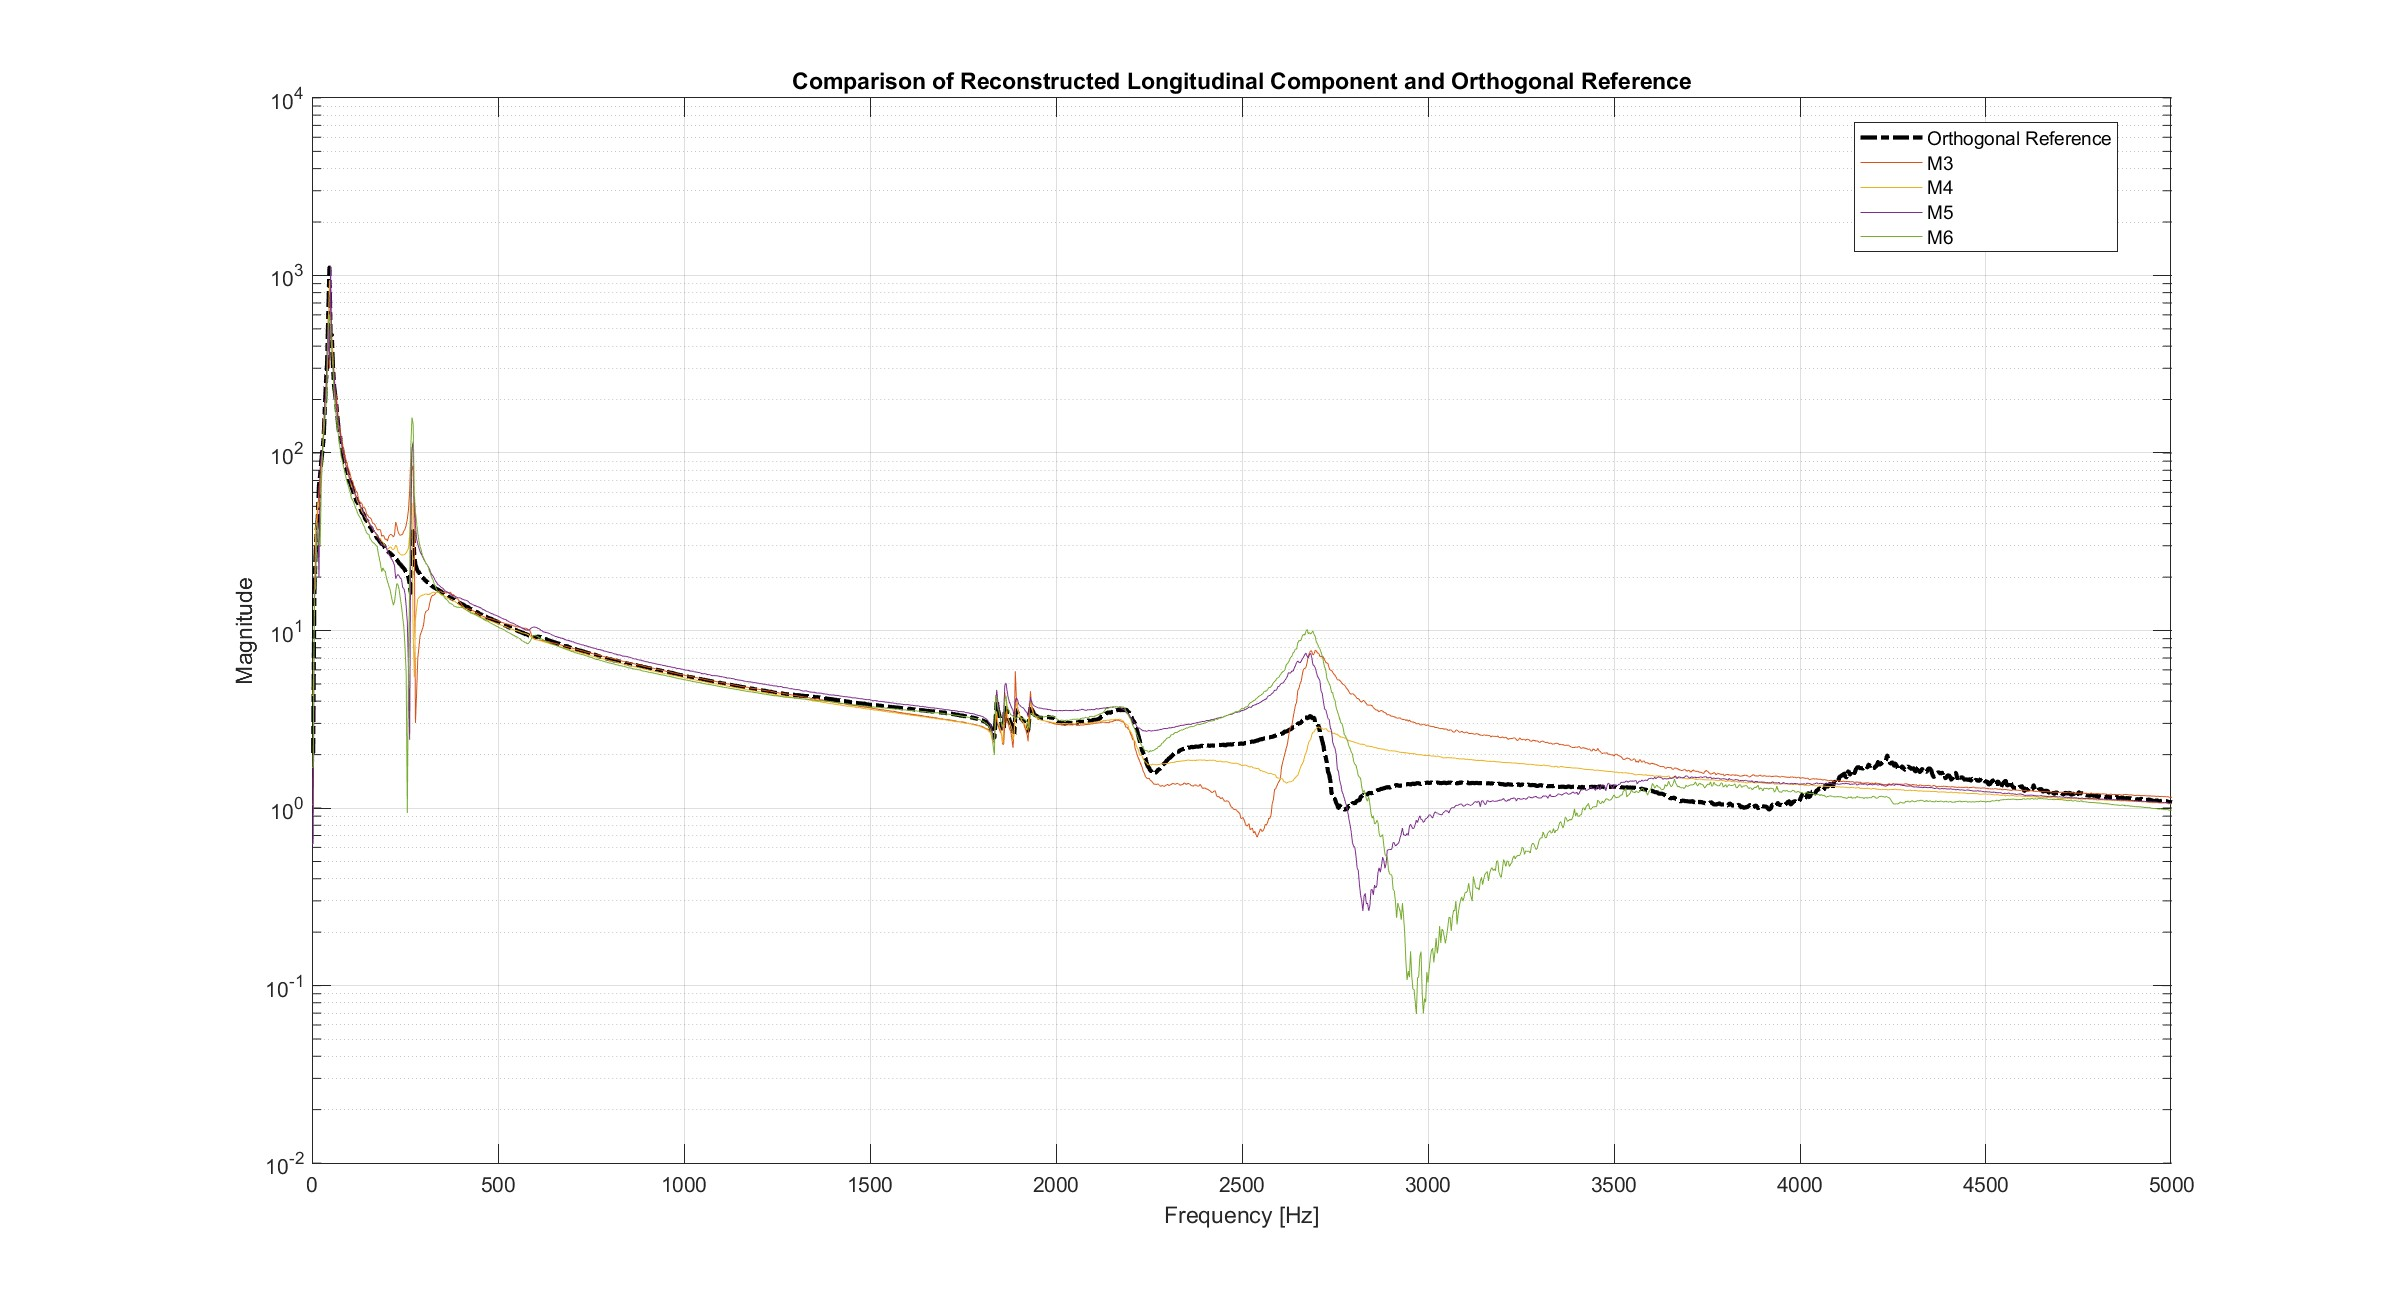
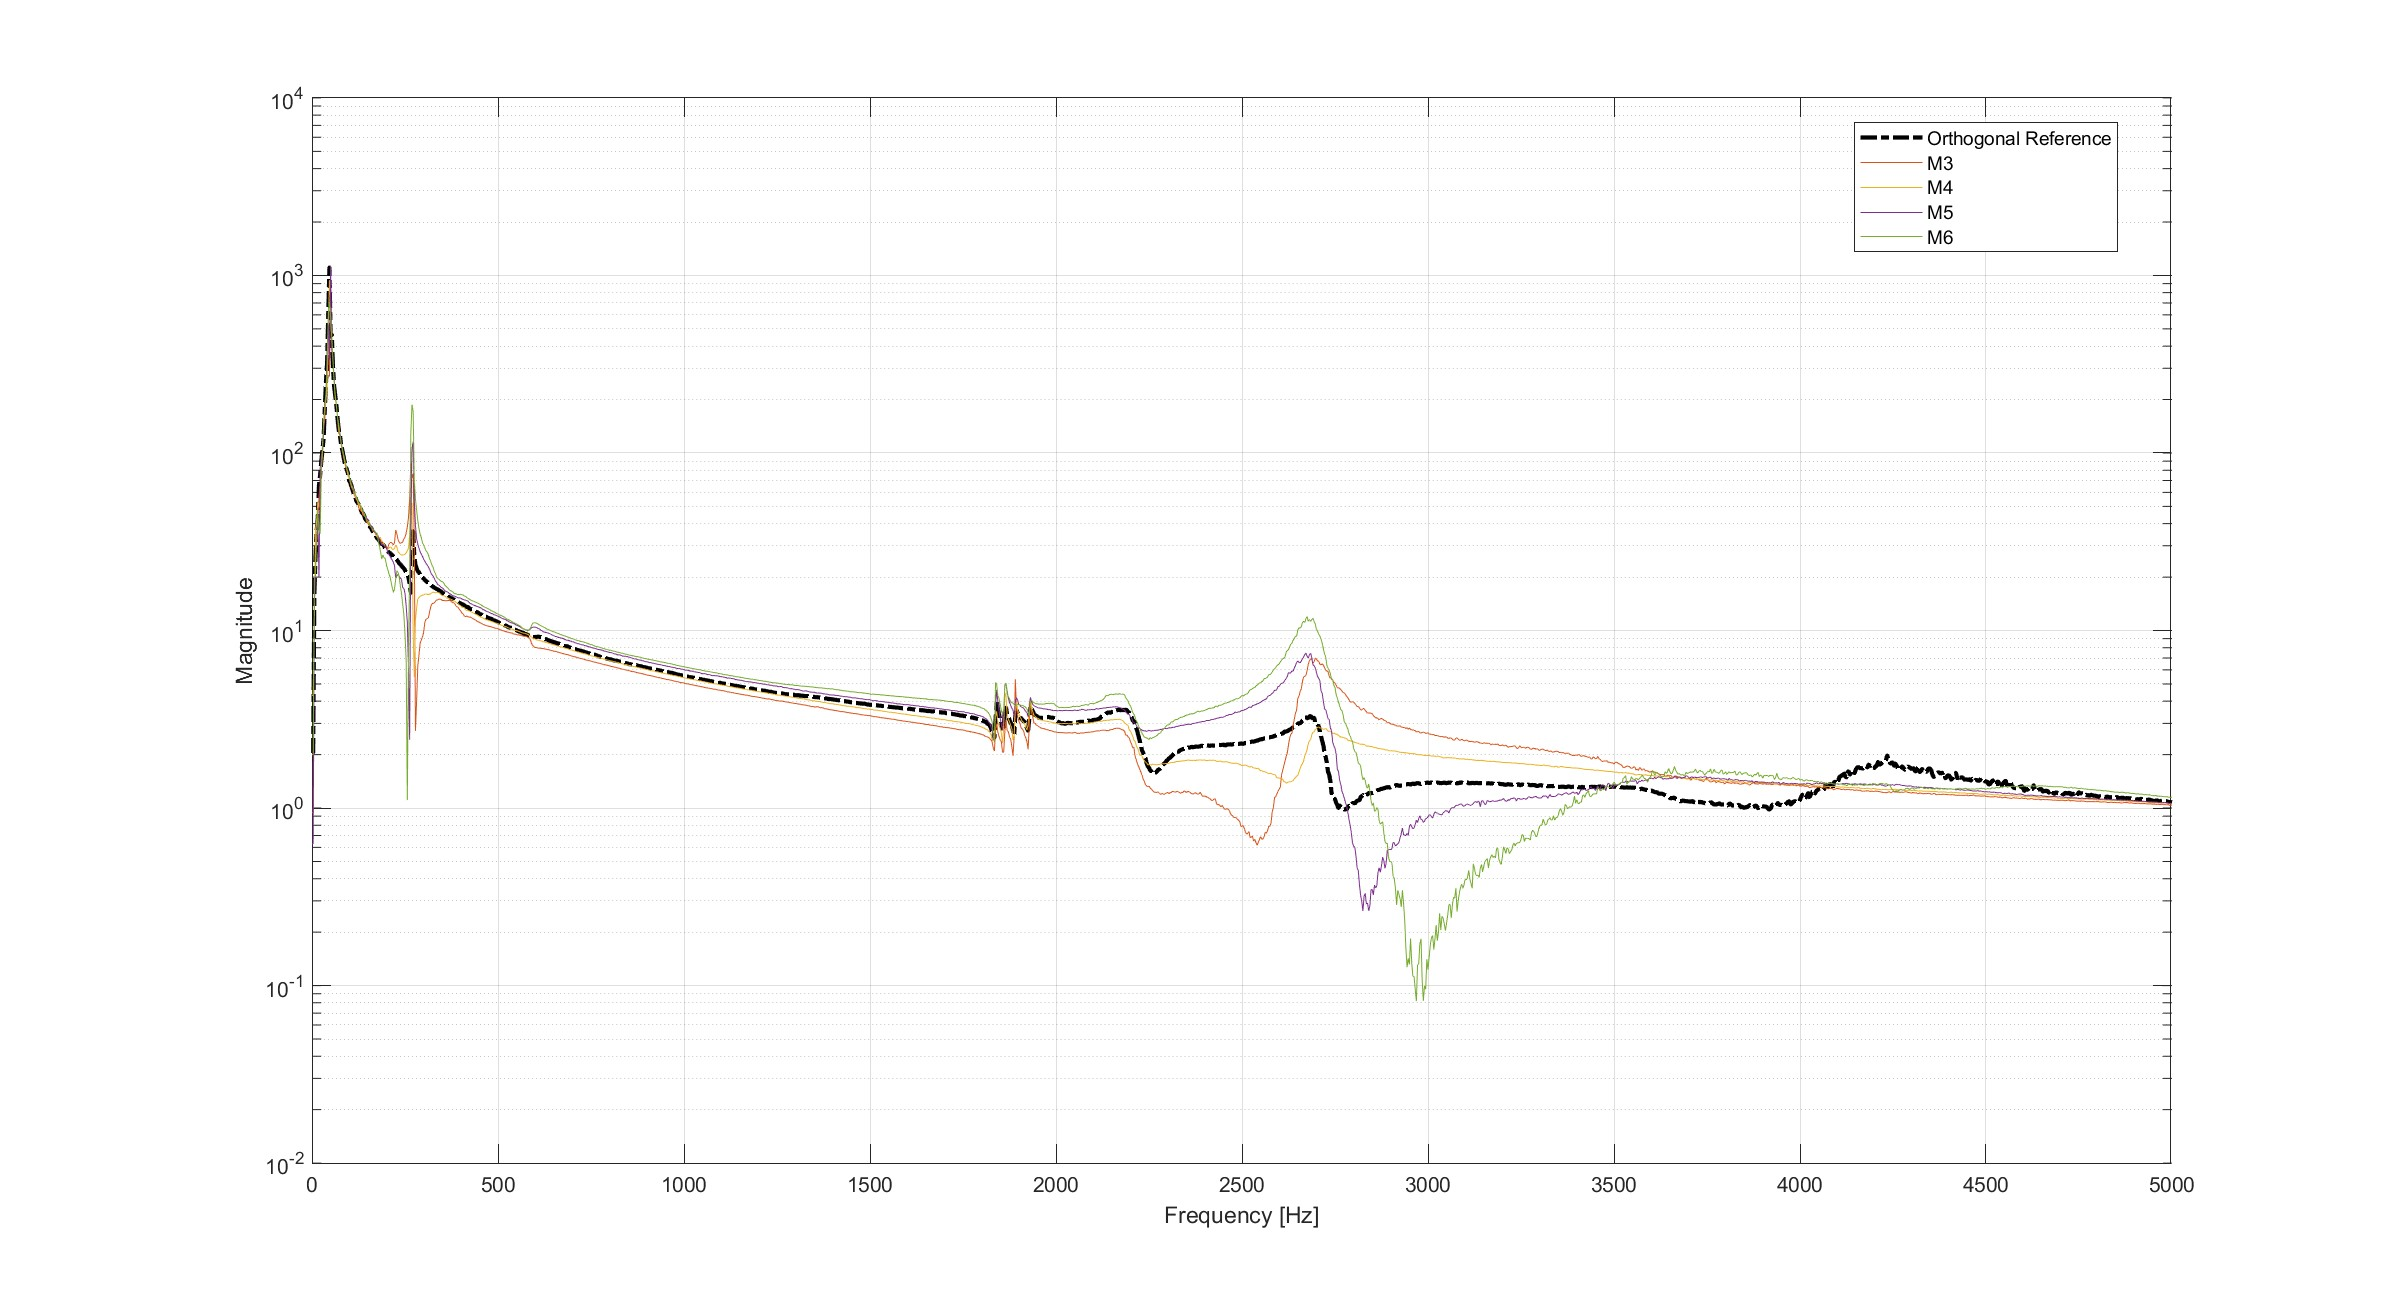
Update Angles

diff --git a/Experiment - EGS and Vibrometer/code/main.m b/Experiment - EGS and Vibrometer/code/main.m
@@ -31,10 +31,10 @@ M6 = M6.FRF_vibrometro;
 %------------------------------------------------------------------------
 M1_corr = M1;  
 M2_corr = M2;   
-M3_corr = M3 / cosd(50);  
-M4_corr = M4 / cosd(22.61);   
-M5_corr = M5 / cosd(27.69);   
-M6_corr = M6 / cosd(35); 
+M3_corr = M3 / cosd(44.53);
+M4_corr = M4 / cosd(22.61);
+M5_corr = M5 / cosd(27.69);
+M6_corr = M6 / cosd(46.09);
 
 %------------------------------------------------------------------------
 % Average z components
@@ -60,7 +60,7 @@ semilogy(f, abs(Z), 'DisplayName', 'M3 + M4 + M5 + M6');
 legend('Location', 'best');
 xlabel('Frequency [Hz]');
 ylabel('Magnitude');
-title('Comparison of Reconstructed Longitudinal Component and Orthogonal Reference');
+% title('Comparison of Reconstructed Longitudinal Component and Orthogonal Reference');
 grid on;
 
 % --- Comparision of Longitudinal Components
@@ -75,7 +75,7 @@ semilogy(f, abs(M6_corr), 'DisplayName', 'M6');
 legend('Location', 'best');
 xlabel('Frequency [Hz]');
 ylabel('Magnitude');
-title('Comparison of Reconstructed Longitudinal Component and Orthogonal Reference');
+% title('Comparison of Reconstructed Longitudinal Component and Orthogonal Reference');
 grid on;
 
 % --- Error relative to orthogonal measurement
@@ -92,7 +92,7 @@ plot(f, 20 * log10(abs(Z5 ./ M1)), 'DisplayName', 'M5 + M6 [dB]');
 xlabel('Frequency [Hz]');
 ylabel('Relative Error [dB]');
 legend('Location', 'best');
-title('Relative Error');
+% title('Relative Error');
 grid on;
 
 %------------------------------------------------------------------------
